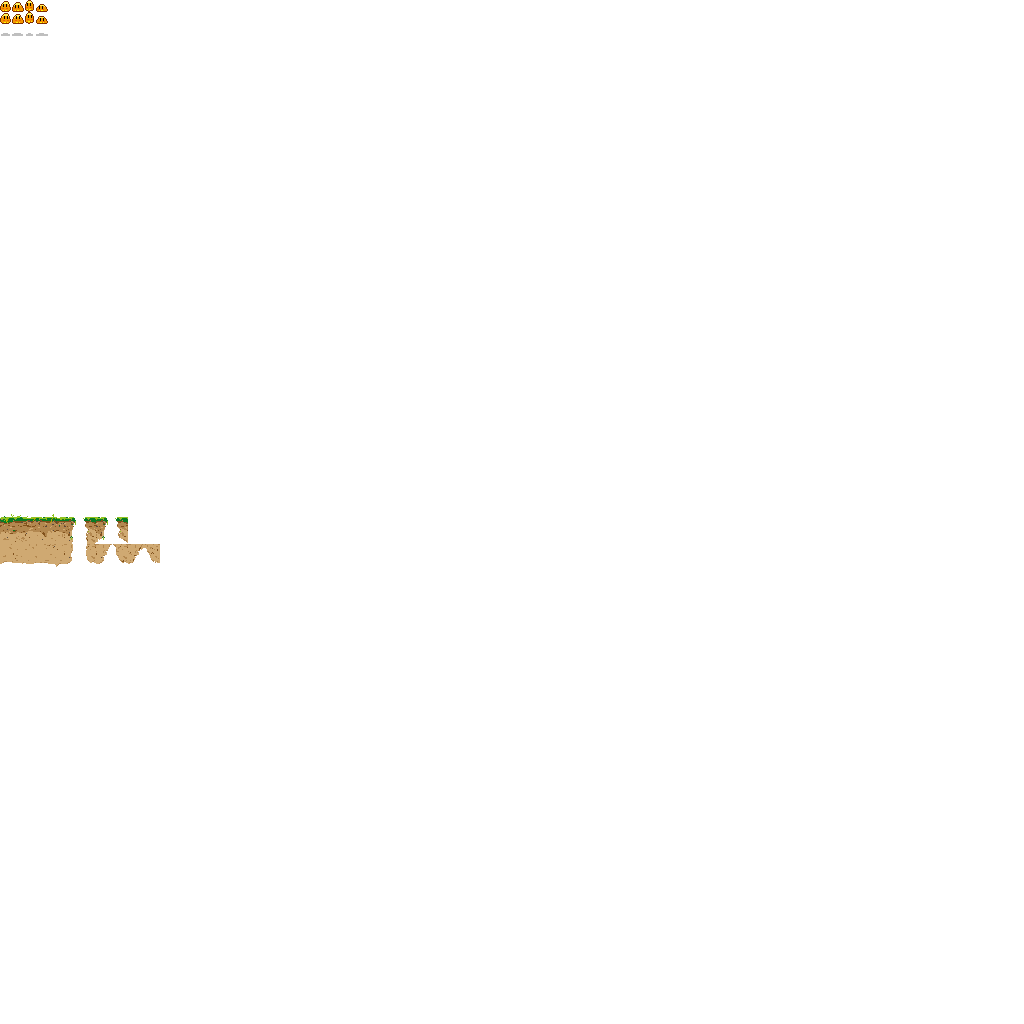
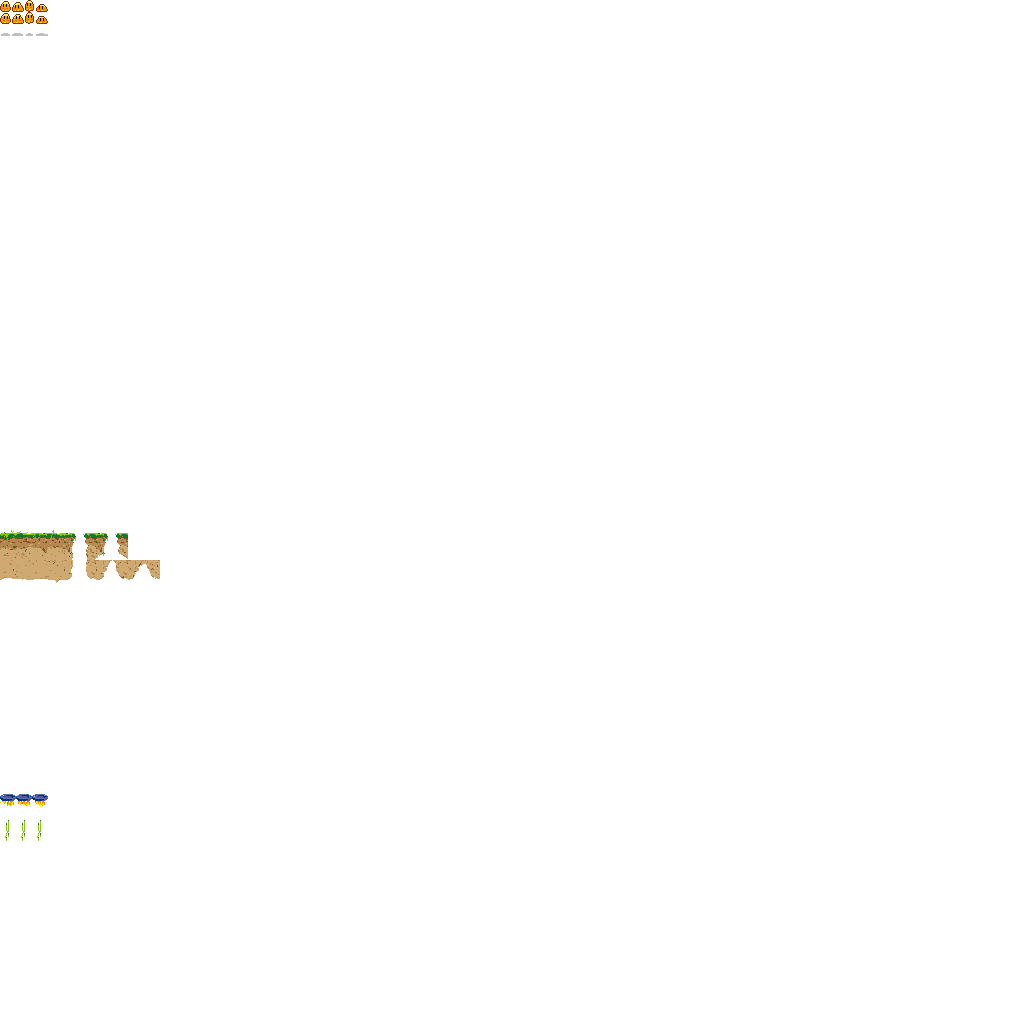
Add map overlay animation

Changed region(s): [[0.0, 0.5, 0.1562, 0.5938], [0.0, 0.75, 0.0312, 0.8125]]

diff --git a/src/game/index.ts b/src/game/index.ts
@@ -1,8 +1,9 @@
 import { Splite } from './lib/Splite'
+import { Anime } from './lib/Anime'
 import { GameMap } from './lib/GameMap'
 
 import { Kernel } from './Kernel'
-import { MapCell } from './MapCell'
+import { MapCell, OverlayMapCell } from './MapCell'
 
 class Game {
   readonly canvas: HTMLCanvasElement
@@ -14,7 +15,9 @@ class Game {
   readonly scale: number
 
   readonly gameMap: GameMap<MapCell>
+  readonly overlayMap: GameMap<OverlayMapCell>
   readonly bg: Splite
+  readonly bgOverlay: Anime
   readonly kernel: Kernel
 
   command: Map<string, boolean>
@@ -42,30 +45,35 @@ class Game {
       topLeft: [0, 512],
       sz: [16, 16],
     })
+    this.bgOverlay = new Anime(this.splite, {
+      topLeft: [0, 768],
+      sz: [16, 16],
+      frames: [0, 1, 2, 1],
+    })
 
     const mapData1 = [
-      [8, 8, 8, 8, 8, 8, 8, 8, 8, 8, 8, 8, 8, 8],
-      [8, 8, 8, 8, 8, 8, 8, 8, 8, 8, 8, 8, 8, 8],
-      [8, 8, 8, 8, 8, 8, 8, 8, 8, 8, 8, 8, 8, 8],
-      [8, 8, 8, 8, 8, 8, 8, 8, 8, 8, 8, 8, 8, 8],
-      [8, 8, 7, 1, 6, 8, 8, 8, 8, 8, 8, 8, 8, 8],
-      [8, 8, 7, 2, 6, 8, 8, 8, 8, 8, 8, 8, 8, 8],
-      [0, 1, 2, 3, 2, 1, 3, 2, 0, 4, 8, 5, 3, 2],
-      [0, 1, 2, 3, 1, 1, 3, 2, 0, 6, 8, 5, 3, 2],
-      [1, 0, 2, 3, 2, 9, 1, 2, 6, 8, 8, 5, 1, 0],
-      [8, 8, 8, 8, 8, 7, 1, 2, 6, 8, 8, 8, 8, 8],
+      [0, 0, 0, 0, 0, 0, 0, 0, 0, 0, 0, 0, 0, 0],
+      [0, 0, 0, 0, 0, 0, 0, 0, 0, 0, 0, 0, 0, 0],
+      [0, 0, 0, 0, 0, 0, 0, 0, 0, 0, 0, 0, 0, 0],
+      [0, 0, 0, 0, 0, 0, 0, 0, 0, 0, 0, 0, 0, 0],
+      [0, 0, 7, 1, 6, 0, 0, 0, 0, 0, 0, 0, 0, 0],
+      [0, 0, 7, 2, 6, 0, 0, 0, 0, 0, 0, 0, 0, 0],
+      [0, 1, 2, 3, 2, 1, 3, 2, 0, 4, 0, 5, 3, 2],
+      [0, 1, 2, 3, 1, 1, 3, 2, 0, 6, 0, 5, 3, 2],
+      [1, 0, 2, 3, 2, 9, 1, 2, 6, 0, 0, 5, 1, 0],
+      [0, 0, 0, 0, 0, 7, 1, 2, 6, 0, 0, 0, 0, 0],
     ]
     const mapData2 = [
       [0, 0, 0, 0, 0, 0, 0, 0, 0, 0, 0, 0, 0, 0],
       [0, 0, 0, 0, 0, 0, 0, 0, 0, 0, 0, 0, 0, 0],
       [0, 0, 0, 0, 0, 0, 0, 0, 0, 0, 0, 0, 0, 0],
       [0, 0, 0, 0, 0, 0, 0, 0, 0, 0, 0, 0, 0, 0],
-      [0, 0, 0, 0, 0, 0, 0, 0, 0, 0, 0, 0, 0, 0],
-      [0, 0, 3, 3, 3, 0, 0, 0, 0, 0, 0, 0, 0, 0],
-      [0, 0, 0, 0, 0, 0, 0, 0, 0, 0, 0, 0, 0, 0],
+      [0, 0, 1, 1, 1, 0, 0, 0, 0, 0, 0, 0, 0, 0],
+      [0, 0, 4, 4, 4, 0, 0, 0, 0, 0, 0, 0, 0, 0],
       [1, 1, 1, 1, 1, 1, 1, 1, 1, 1, 0, 1, 1, 1],
-      [3, 3, 3, 3, 3, 2, 2, 2, 2, 0, 0, 3, 3, 3],
-      [0, 0, 0, 0, 0, 3, 3, 3, 3, 0, 0, 0, 0, 0],
+      [2, 2, 2, 2, 2, 2, 2, 2, 2, 2, 0, 2, 2, 2],
+      [4, 4, 4, 4, 4, 3, 3, 3, 3, 0, 0, 4, 4, 4],
+      [0, 0, 0, 0, 0, 4, 4, 4, 4, 0, 0, 0, 0, 0],
     ]
     const mapDataType = [
       [0, 0, 0, 0, 0, 0, 0, 0, 0, 0, 0, 0, 0, 0],
@@ -79,10 +87,29 @@ class Game {
       [1, 1, 1, 1, 1, 1, 1, 1, 1, 0, 0, 1, 1, 1],
       [1, 1, 1, 1, 1, 1, 1, 1, 1, 0, 0, 0, 0, 0],
     ]
+    const mapDataOverlay = [
+      [0, 0, 0, 0, 0, 0, 0, 0, 0, 0, 0, 0, 0, 0],
+      [0, 0, 0, 0, 0, 0, 0, 0, 0, 0, 0, 0, 0, 0],
+      [0, 0, 0, 0, 0, 0, 0, 0, 0, 0, 0, 0, 0, 0],
+      [0, 0, 0, 0, 0, 0, 0, 0, 0, 0, 0, 0, 0, 0],
+      [0, 0, 3, 0, 0, 0, 0, 0, 0, 0, 0, 0, 0, 0],
+      [0, 0, 4, 0, 0, 0, 0, 0, 0, 0, 0, 0, 1, 0],
+      [0, 0, 0, 0, 0, 0, 0, 0, 0, 0, 0, 0, 2, 0],
+      [0, 0, 0, 0, 0, 0, 0, 0, 0, 0, 0, 0, 0, 0],
+      [0, 0, 0, 0, 0, 0, 0, 0, 0, 0, 0, 0, 0, 0],
+      [0, 0, 0, 0, 0, 0, 0, 0, 0, 0, 0, 0, 0, 0],
+    ]
     this.gameMap = new GameMap<MapCell>(
       [14, 10],
       (x: number, y: number) =>
         new MapCell(mapData1[y][x], mapData2[y][x], mapDataType[y][x] === 1),
+      [-100, 0],
+      [100, 10],
+      [640, 480],
+    )
+    this.overlayMap = new GameMap<OverlayMapCell>(
+      [14, 10],
+      (x: number, y: number) => new OverlayMapCell(mapDataOverlay[y][x], 0),
       [-100, 0],
       [100, 10],
       [640, 480],
@@ -134,8 +161,10 @@ class Game {
         space: this.command.has('Space'),
       }
       this.kernel.tick(kernelCmd, this.gameMap)
+      this.bgOverlay.tick()
 
       this.gameMap.draw(this.ctx, this.bg, [0, 0], this.scale)
+      this.overlayMap.draw(this.ctx, this.bgOverlay, [0, 0], this.scale)
       this.kernel.draw(this.ctx, this.scale)
     } catch (err) {
       console.error(err)

diff --git a/src/game/MapCell.ts b/src/game/MapCell.ts
@@ -5,11 +5,20 @@ export class MapCell implements Cell {
   readonly solid: boolean
 
   constructor(mode1: number, mode2: number, solid: boolean) {
-    this.v = {
-      mode1,
-      mode2,
-    }
+    this.v = { mode1, mode2 }
     this.solid = solid
+  }
+
+  appearance(): Appearance {
+    return this.v
+  }
+}
+
+export class OverlayMapCell implements Cell {
+  readonly v: Appearance
+
+  constructor(mode1: number, mode2: number) {
+    this.v = { mode1, mode2 }
   }
 
   appearance(): Appearance {
